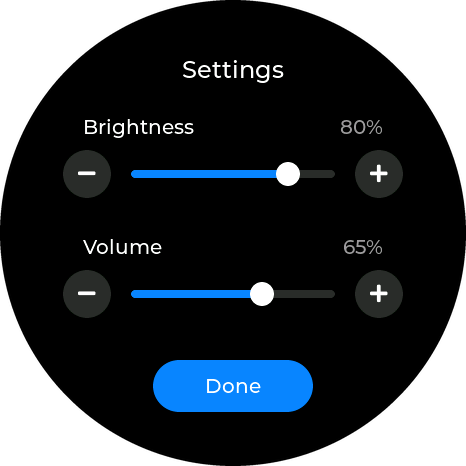
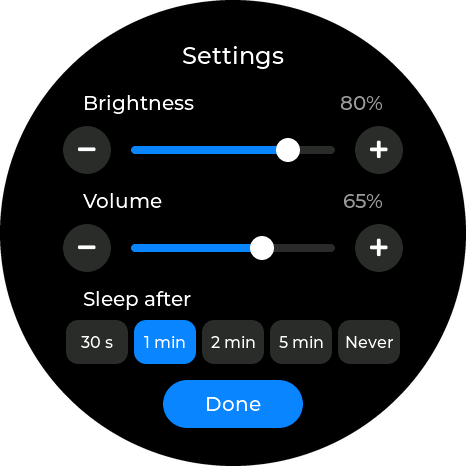
0.1.4: auto-sleep with Sleep after setting, black frame before panel on, stray PWR edges ignored

diff --git a/main/main.c b/main/main.c
@@ -23,6 +23,9 @@ static esp_lcd_touch_handle_t touch;
 static lv_display_t *disp;
 static bool sleeping;
 static int brightness = 80;
+static volatile int64_t last_input_ms;
+static int sleep_after_s = 60;
+void hal_set_sleep_after(int sec) { sleep_after_s = sec; }
 void hal_set_brightness(int pct) { brightness = pct < 10 ? 10 : pct > 100 ? 100 : pct; if (!sleeping) esp_lcd_panel_co5300_set_brightness(panel, brightness); }
 
 static bool trans_done(esp_lcd_panel_io_handle_t io, esp_lcd_panel_io_event_data_t *e, void *ctx) {
@@ -41,6 +44,7 @@ static void touch_read(lv_indev_t *in, lv_indev_data_t *d) {
     esp_lcd_touch_read_data(touch);
     if (!sleeping && esp_lcd_touch_get_coordinates(touch, &x, &y, NULL, &n, 1) && n) {
         d->point.x = x; d->point.y = y; d->state = LV_INDEV_STATE_PRESSED;
+        last_input_ms = esp_timer_get_time() / 1000;
     } else d->state = LV_INDEV_STATE_RELEASED;
 }
 static uint32_t tick_cb(void) { return esp_timer_get_time() / 1000; }
@@ -60,8 +64,10 @@ static void display_init(void) {
     ESP_ERROR_CHECK(esp_lcd_new_panel_co5300(io, &pc, &panel));
     esp_lcd_panel_reset(panel); esp_lcd_panel_init(panel);
     esp_lcd_panel_set_gap(panel, LCD_X_GAP, 0);
-    esp_lcd_panel_disp_on_off(panel, true);
-    brightness = hal_kv_get("bright", 80); esp_lcd_panel_co5300_set_brightness(panel, brightness);
+    /* Keep the panel dark until LVGL has painted a full black frame (no uninitialized-GRAM green flash). */
+    esp_lcd_panel_co5300_set_brightness(panel, 0);
+    esp_lcd_panel_disp_on_off(panel, false);
+    brightness = hal_kv_get("bright", 80); if (brightness < 10) brightness = 10;
 
     size_t sz = LCD_RES * BUF_LINES * 2;   /* small internal DMA strips (2 x 12 lines) */
     void *b1 = heap_caps_malloc(sz, MALLOC_CAP_DMA | MALLOC_CAP_INTERNAL);
@@ -91,11 +97,12 @@ static void set_sleep(bool s) {
 static void power_poll(void) {
     static int64_t down_at; static bool down, hinted;
     int ev = hal_pkey_poll(); int64_t now = esp_timer_get_time() / 1000;
+    if (ev) { ESP_LOGI("pwr", "pkey event %d (down=%d)", ev, down); last_input_ms = now; }
     if (ev & 1) { down = true; down_at = now; hinted = false; }
     if (down && !hinted && now - down_at > 300) { hinted = true; if (sleeping) set_sleep(false); app_power_hint(true); lv_refr_now(NULL); }
     if (down && now - down_at > 1200) { hal_power_off(); vTaskDelay(portMAX_DELAY); }
     if (ev & 2) {
-        if (!down || now - down_at <= 300) set_sleep(!sleeping);  /* short press (or release seen alone) */
+        if (down && now - down_at <= 300) set_sleep(!sleeping);  /* only a real press+release pair; stray edges ignored */
         if (hinted) app_power_hint(false);
         down = false;
     }
@@ -106,9 +113,15 @@ static void ui_task(void *a) {
         int64_t now = esp_timer_get_time() / 1000;
         if (now - last_pk >= 20) { last_pk = now; power_poll();
             static bool boot_prev; bool b = hal_boot_pressed();
-            if (b && !boot_prev) { if (sleeping) set_sleep(false); else app_home_button(); }
+            if (b && !boot_prev) { last_input_ms = now; if (sleeping) set_sleep(false); else app_home_button(); }  /* wake press doesn't go Home */
             boot_prev = b; }
-        if (now - last_status >= 1000) { last_status = now; hal_batt_poll(); app_refresh_status(); }
+        if (now - last_status >= 1000) { last_status = now; hal_batt_poll(); if (!sleeping) app_refresh_status();
+            hal_ota_t o; hal_ota_get(&o);
+            bool ota_busy = o.state == OTA_INSTALLING || o.state == OTA_RESTARTING;
+            if (ota_busy) last_input_ms = now;              /* never sleep mid-install */
+            if (!sleeping && sleep_after_s > 0 && now - last_input_ms > sleep_after_s * 1000LL) {
+                ESP_LOGI("pwr", "auto-sleep after %d s idle", sleep_after_s); set_sleep(true);   /* pauses the game first */
+            } }
         if (now - last_ota >= 200) { last_ota = now; app_ota_tick(); }
         uint32_t d = lv_timer_handler();
         if (!marked && now > 8000) { marked = true; hal_ota_mark_valid(); }  /* UI up and stable for 8 s (Wi-Fi, audio, first frames) */
@@ -123,6 +136,10 @@ void app_main(void) {
     display_init();
     hal_audio_init();
     app_init();
+    lv_refr_now(NULL);                       /* first full frame into GRAM */
+    esp_lcd_panel_disp_on_off(panel, true);
+    esp_lcd_panel_co5300_set_brightness(panel, brightness);
+    sleep_after_s = hal_kv_get("sleep_s", 60); last_input_ms = esp_timer_get_time() / 1000;
     hal_ota_boot();
     xTaskCreatePinnedToCore(ui_task, "ui", 8192, NULL, 5, NULL, 1);
 }

diff --git a/main/ui/app.c b/main/ui/app.c
@@ -329,20 +329,44 @@ static lv_obj_t *setting_row(lv_obj_t *p, const char *name, int y, int val, int 
     char b[8]; snprintf(b, sizeof b, "%d%%", val); lv_label_set_text(*val_lbl, b);
     return sl;
 }
+static const int SLEEP_OPTS[] = { 30, 60, 120, 300, 0 };
+static const char *SLEEP_LBL[] = { "30 s", "1 min", "2 min", "5 min", "Never" };
+static lv_obj_t *sleep_pill[5];
+static void sleep_paint(void) {
+    int cur = hal_kv_get("sleep_s", 60);
+    for (int i = 0; i < 5; i++) {
+        bool on = SLEEP_OPTS[i] == cur;
+        lv_obj_set_style_bg_color(sleep_pill[i], on ? C_BLUE : C_SURFACE2, 0);
+    }
+}
+static void sleep_ev(lv_event_t *e) {
+    int v = SLEEP_OPTS[(intptr_t)lv_event_get_user_data(e)];
+    hal_kv_set("sleep_s", v); hal_set_sleep_after(v); sleep_paint();
+}
 static void settings_done(lv_event_t *e) { (void)e; lv_obj_add_flag(settings, LV_OBJ_FLAG_HIDDEN); }
 void app_open_settings(void) {
     if (!settings) {
         settings = plain(lv_layer_top()); lv_obj_set_size(settings, SCR, SCR); lv_obj_add_flag(settings, LV_OBJ_FLAG_CLICKABLE);
         lv_obj_set_style_bg_opa(settings, LV_OPA_COVER, 0); lv_obj_set_style_bg_color(settings, C_BG, 0);
-        lv_obj_t *t = label(settings, F_HEAD, C_LABEL, "Settings"); lv_obj_align(t, LV_ALIGN_TOP_MID, 0, 56);
-        sl_bright = setting_row(settings, "Brightness", 116, hal_kv_get("bright", 80), 10, &val_bright, 1);
-        sl_vol = setting_row(settings, "Volume", 236, hal_kv_get("volume", 65), 0, &val_vol, 2);
+        lv_obj_t *t = label(settings, F_HEAD, C_LABEL, "Settings"); lv_obj_align(t, LV_ALIGN_TOP_MID, 0, 42);
+        sl_bright = setting_row(settings, "Brightness", 92, hal_kv_get("bright", 80), 10, &val_bright, 1);
+        sl_vol = setting_row(settings, "Volume", 190, hal_kv_get("volume", 65), 0, &val_vol, 2);
+        lv_obj_t *sa = label(settings, F_BODY, C_LABEL, "Sleep after"); lv_obj_set_pos(sa, 83, 288);
+        for (int i = 0; i < 5; i++) {   /* segmented control, 60x44 targets */
+            lv_obj_t *b = lv_button_create(settings); lv_obj_remove_style_all(b);
+            lv_obj_set_size(b, 62, 44); lv_obj_set_style_radius(b, 12, 0); lv_obj_set_style_bg_opa(b, LV_OPA_COVER, 0);
+            lv_obj_set_pos(b, (SCR - (5 * 62 + 4 * 6)) / 2 + i * 68, 320);
+            lv_obj_t *l = label(b, F_CAPTION, C_LABEL, SLEEP_LBL[i]); lv_obj_center(l);
+            lv_obj_add_event_cb(b, sleep_ev, LV_EVENT_CLICKED, (void *)(intptr_t)i);
+            sleep_pill[i] = b;
+        }
+        sleep_paint();
         lv_obj_t *d = lv_button_create(settings); lv_obj_remove_style_all(d);
-        lv_obj_set_size(d, 160, 52); lv_obj_set_style_radius(d, 26, 0);
+        lv_obj_set_size(d, 140, 48); lv_obj_set_style_radius(d, 24, 0);
         lv_obj_set_style_bg_opa(d, LV_OPA_COVER, 0); lv_obj_set_style_bg_color(d, C_BLUE, 0);
         lv_obj_set_style_transform_scale(d, 246, LV_STATE_PRESSED);
-        lv_obj_set_style_transform_pivot_x(d, 80, 0); lv_obj_set_style_transform_pivot_y(d, 26, 0);
-        lv_obj_align(d, LV_ALIGN_TOP_MID, 0, 360);
+        lv_obj_set_style_transform_pivot_x(d, 70, 0); lv_obj_set_style_transform_pivot_y(d, 24, 0);
+        lv_obj_align(d, LV_ALIGN_TOP_MID, 0, 380);
         lv_obj_t *l = label(d, F_BODY, C_LABEL, "Done"); lv_obj_center(l);
         lv_obj_add_event_cb(d, settings_done, LV_EVENT_CLICKED, NULL);
     }

diff --git a/main/hal/hal.h b/main/hal/hal.h
@@ -44,3 +44,4 @@ void hal_ota_ack(void);           /* clears prompt + rolled_back flags */
 
 void hal_set_brightness(int pct);   /* 10..100, live */
 void hal_set_volume(int pct);       /* 0..100, live */
+void hal_set_sleep_after(int seconds); /* 0 = never; live */

diff --git a/sim/hal_sim.c b/sim/hal_sim.c
@@ -16,3 +16,4 @@ void hal_ota_install(void) {}
 void hal_ota_ack(void) {}
 void hal_set_brightness(int p) { (void)p; }
 void hal_set_volume(int p) { (void)p; }
+void hal_set_sleep_after(int s) { (void)s; }
